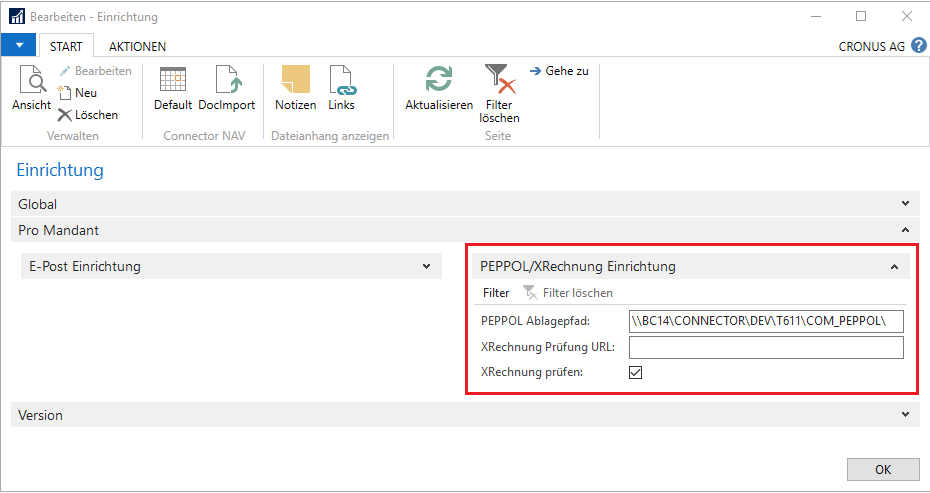
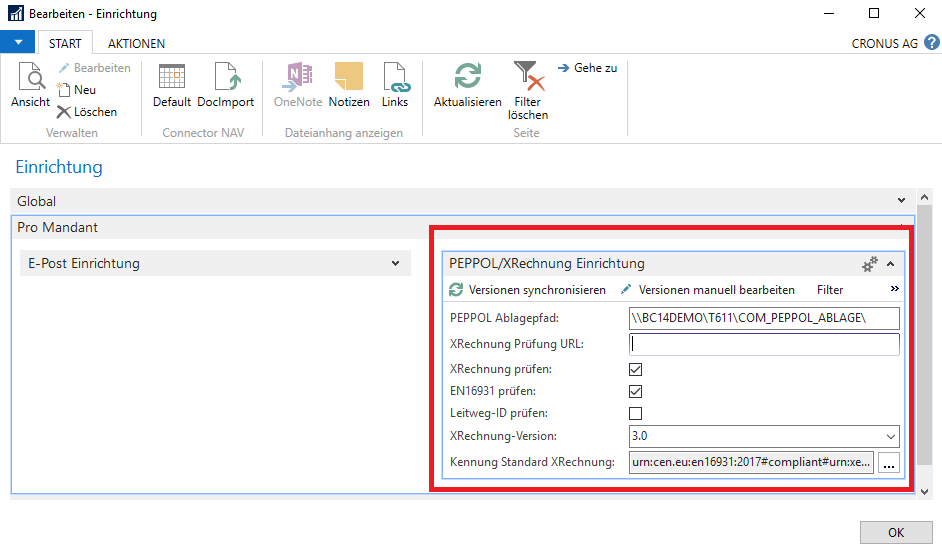
minor changes and fixes / xrechnung version for nav

diff --git a/content/de-de/connectornav/data exchange/xrechnung/setup.md b/content/de-de/connectornav/data exchange/xrechnung/setup.md
@@ -7,24 +7,30 @@ collapsible: false
 weight: 3
 ---
 
-##### Einrichtung
+# Einrichtung
 
 Die Einrichtung für XRechnung wird in der Connector-**Einrichtung** und in der **Kommunikationsmatrix** vorgenommen. Um in die **Einrichtung** zu gelangen, gehen Sie auf **Connector 365 -\> Einrichtung** wie im folgenden Bild gezeigt.
 
 {{<notice info>}}Sie sollten vor dem Einsatz ggf. einige Stammdaten überprüfen, damit Sie im späteren Versand nicht auf Fehler stoßen, die sich vermeiden lassen. Weitere Informationen dazu finden Sie am Ende der Dokumentation.{{</notice>}}
 
-![](/images/connectornav/data_exchange/xrech1.png)
+|![](/images/connectornav/data_exchange/xrech1.png)|
+|-|
 
 Die Einstellungen, die XRechnung betreffen, finden Sie im Abschnitt **Pro Mandant** unter dem Reiter **PEPPOL/XRechnung Einrichtung**
 
-![](/images/connectornav/data_exchange/xrech2.png)  
+|![](/images/connectornav/data_exchange/xrech2.png)|
+|-|
 
 Hier können Sie folgende Felder/Checkboxen finden:
-| | |
-|---|---|
-| PEPPOL Ablagepfad (Optional)     | Hier können Sie einen Pfad hinterlegen, in dem PEPPOL/XRechnung betreffende Dateien (XML-Dateien, Prüfberichte) abgelegt werden sollen. Wenn dieser Pfad nicht gesetzt ist, wird der in der Einrichtung hinterlegte Pfad **com_out** zur Ablage  verwendet. |
-| XRechnung Prüfung URL (Optional) | URL für Validierungsserver. Wenn nicht eingerichtet standardmäßig: **belware-validator.westeurope.cloudapp.azure.com:5090**                                                                                                                                 |
-| XRechnung prüfen [Ja/Nein]       | Gibt an, ob XRechnung-Dateien durch **XRechnung Prüfung URL** validiert werden sollen.                                                                                                                                                                      |
+| Feld | Beschreibung |
+|-|-|
+| PEPPOL Ablagepfad | Hier können Sie einen Pfad hinterlegen, in dem PEPPOL/XRechnung betreffende Dateien (XML-Dateien, Prüfberichte) abgelegt werden sollen. Wenn dieser Pfad nicht gesetzt ist, wird einzig der in der Einrichtung hinterlegte Pfad **com_out** zur Ablage  verwendet. |
+| XRechnung Prüfung URL | Gibt die URL für einen Validierungsdienst an, der die Korrektheit einer erstellten PEPPOL- bzw. XRechnung-Datei prüft. Dieses Feld wird nur benötigt, wenn ein [eigener Validierungsdienst](de-de/connectornav/data-exchange/xrechnung/setup_validator/) genutzt werden soll. |
+| XRechnung prüfen | Gibt an, ob PEPPOL- bzw. XRechnung-Dateien durch einen Validierungsdienst geprüft werden sollen. Wenn **XRechnung Prüfung URL** gesetzt ist, wird die zu prüfende Datei an die hinterlegte URL zwecks Validierung gesendet. |
+| EN16931 prüfen | Gibt an, dass erzeugte XML-Dateien auf Konformität zu EN-16931 geprüft werden sollen. |
+| Leitweg-Id prüfen | Gibt an, ob eingegebene Leitweg-Ids auf syntaktische Korrektheit geprüft werden sollen. |
+| XRechnung-Version | Gibt die XRechnung-Version an, die momentan verwendet wird. Mehr zur XRechnung-Version finden Sie [hier](de-de/connectornav/data-exchange/xrechnung/setup#xrechnung-version). |
+| Kennung Standard XRechnung | Gibt die verwendete Kennung für die momentan verwendete XRechnung-Version an. Mehr zur XRechnung-Version finden Sie [hier](de-de/connectornav/data-exchange/xrechnung/setup#xrechnung-version). |
 
 Wie bereits in der Vorbereitung erwähnt, haben Sie die Möglichkeit unseren Validierungsserver zu nutzen. Dieser prüft, ob die erzeugt XRechnung konform zu den formalen Vorgaben ist. Falls Sie ihren eigenen Server benutzen möchten, so können Sie Ihre Server-URL in das Feld **XRechnung Prüfung URL** eintragen. Sobald dieses Feld gefüllt ist, wird der Validierungsprozess über den eingetragenen Server angesteuert. Damit die Validierung stattfinden kann, muss zusätzlich ein Häkchen in der darunterliegenden Checkbox **XRechnung prüfen** gesetzt sein. Falls Sie auf eine Validierung verzichten möchten, so können Sie die Checkbox leer lassen. (Nicht empfohlen)
 
@@ -33,22 +39,25 @@ Die weitere Einrichtung für XRechnung findet in der Kommunikationsmatrix statt.
 Der einfachste Weg, um in die Kommunikationsmatrix zu gelangen ist, eine der **Connector 365 Templates** für Verkauf, z.B. **Geb. Verkaufsrechnungen** oder **Geb. Verkaufsgutschriften** zu öffnen.  
 Markieren Sie dann eine Rechnung für einen Kunden, für den Sie Rechnungen im XRechnung-Format verschicken möchten und klicken Sie oben in der Leiste auf **Kommunikationsmatrix.**
 
-![](/images/connectornav/data_exchange/xrech3.png)
+|![](/images/connectornav/data_exchange/xrech3.png)|
+|-|
 
 Dies öffnet die Kommunikationsmatrix, vorgefiltert auf den in der markierten Rechnung hinterlegten Kunden.
 
 {{<notice info>}}Dies funktioniert nur, wenn in der Kommunikationsmatrix bereits ein Eintrag für den betreffenden Debitor angelegt wurde. Sollte kein betreffender Eintrag angelegt sein, so ist die folgende Variante anzuwenden.{{</notice>}}
 
 Alternativ können Sie die Kommunikationsmatrix über das Menü **Connector 365** aufrufen.   
-![](/images/connectornav/data_exchange/xrech4.png)
+|![](/images/connectornav/data_exchange/xrech4.png)|
+|-|
 
 Jedoch finden Sie dann eine ungefilterte Ansicht vor, in der Sie einen Überblick über **alle** Einträge in der Matrix erhalten.  
-Weite Informationen zur **Kommunikationsmatrix** finden Sie in der dazugehörigen [Dokumentation](https://belware.de/images/PDFs/Connector_NAV_Matrixdoku_17082020.pdf?type=file).
+Weite Informationen zur **Kommunikationsmatrix** finden Sie in der dazugehörigen [Dokumentation](de-de/connectornav/matrix).
 
 Das Modul **XRechnung** erweitert die **Kommunikationsmatrix** um folgende Spalten:  
 **XRechnung**, **Leitweg-ID** und **XRechnung PDF als Anhang**.
 
-![](/images/connectornav/data_exchange/xrech5.png)
+|![](/images/connectornav/data_exchange/xrech5.png)|
+|-|
 
 In folgendem Beispiel wollen wir eine Rechnung für **Gilde Jupiter Versicherungs AG** im **XRechnung-**Format erstellen. Dazu tragen wir die Nummer **1306** (**Standard Sales – Invoice**) in das Feld **Berichts-ID** ein. Für den **Jobmodus** wählen wir **PDF**. Zudem setzen wir ein Häkchen in dem Feld **XRechnung** und tragen eine gültige Leitweg-ID in das Feld **Leitweg-ID** ein. In diesem Testbeispiel haben wir eine Test-Leitweg-ID **123-456-76** eingetragen.  
 Die **Leitweg-ID** dient der eindeutigen Identifikation des Rechnungsempfängers (näheres finden Sie im Abschnitt: **Leitweg-ID).**   
@@ -57,3 +66,46 @@ Da es sich bei der Rechnung um eine Verkaufsrechnung handelt, wählen wir in dem
 Aus der **Dropdown-Liste** des Feldes **PEPPOL Version** selektieren wir **PEPPOL BIS3.** Nun können wir aus der Rechnung eine XRechnung erzeugen.
 
 {{<notice info>}}Wenn Sie das E-Mail-Modul des Connector 365 erworben haben, so können Sie XRechnung auch für den Jobmodus E-Mail einrichten, um erzeugte XML-Dateien direkt per Mail an den Empfänger weiterzuleiten.{{</notice>}}
+
+## XRechnung Version
+<a name="xrechnung-version"></a>
+
+Für den Standard XRechnung gibt es mehrere veröffentlichte Versionen, die jeweils für einen bestimmten Zeitpunkt gültig sind. 
+In der **PEPPOL/XRechnung Einrichtung** können Sie angeben, welche Version der XRechnung verwendet werden soll. Jede XRechnung Version verwendet dabei eine eigene Kennung (hier **Kennung Standard XRechnung**):
+
+
+Klicken Sie auf den Pfeil am rechten Rand des Feldes **XRechnung-Version**, um eine Übersicht über aktuell verzeichnete Versionen zu erhalten.
+
+|![](images/connectornav/data_exchange/xr-version-assist-de.png)|
+|-|
+
+Es öffnet sich ein neues Fenster:
+
+|![](images/connectornav/data_exchange/xr-version-page-de.png)|
+|-|
+
+Nun erhalten Sie eine Übersicht über XRechnung-Versionen inklusive deren Gültigkeit. 
+Hier kann nun eine Version ausgewählt werden, indem eine beliebige Zeile markiert und anschließend die Seite durch Klicken auf **Ok** bestätigt wird.
+
+### XRechnung Versionen synchronisieren/bearbeiten
+
+Verfügbare XRechnung-Versionen sowie dessen Kennungen können über das Internet synchronisiert werden.
+Unter **Connector 365 Einrichtung** für XRechnung finden Sie dazu eine Aktion **Versionen synchronisieren**, die ausgeführt werden kann.
+
+|![](images/connectornav/data_exchange/xr-update-version-de.png)|
+|-|
+
+Wenn der Funktionsaufruf erfolgreich abgeschlossen ist und neue Versionen gefunden werden konnten, werden diese in der Versionliste mit angezeigt und können ausgewählt werden (Siehe oben).
+
+Zusätzlich wurde die Möglichkeit offen gelassen, XRechnung-Versionen auch manuell zu editieren. Hierzu steht ein weiterer Funktionsaufruf **Versionen manuell bearbeiten** zur Verfügung:
+
+|![](images/connectornav/data_exchange/xr-update-version-manually-de.png)|
+|-|
+
+Aktuell voreingstellte Versionen und Kennungen:
+
+| Version | Kennung | Gültig ab |
+|-|-|-|
+| 3.0 | urn:cen.eu:en16931:2017#compliant#urn:xeinkauf.de:kosit:xrechnung_3.0 | 01.02.2024 |
+| **2.3** | **urn:cen.eu:en16931:2017#compliant#urn:xoev-de:kosit:standard:xrechnung_2.3** | 01.08.2023 |
+| 2.2 | urn:cen.eu:en16931:2017#compliant#urn:xoev-de:kosit:standard:xrechnung_2.2 | 01.02.2023 |

diff --git a/content/de-de/Apps/XRechnung/first steps/setup/base-setup.md b/content/de-de/Apps/XRechnung/first steps/setup/base-setup.md
@@ -56,7 +56,7 @@ Zusätzlich wurde die Möglichkeit offen gelassen, XRechnung-Versionen auch manu
 |![](images/apps/XRechnung/de/xr_update_version_manually_de.png)|
 |-|
 
-Aktuell voreingstellt Versionen und Kennungen:
+Aktuell voreingstellte Versionen und Kennungen:
 
 | Version | Kennung | Gültig ab |
 |-|-|-|
